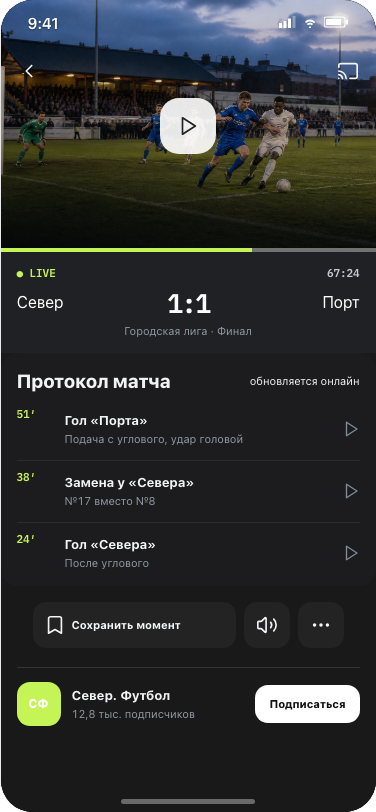
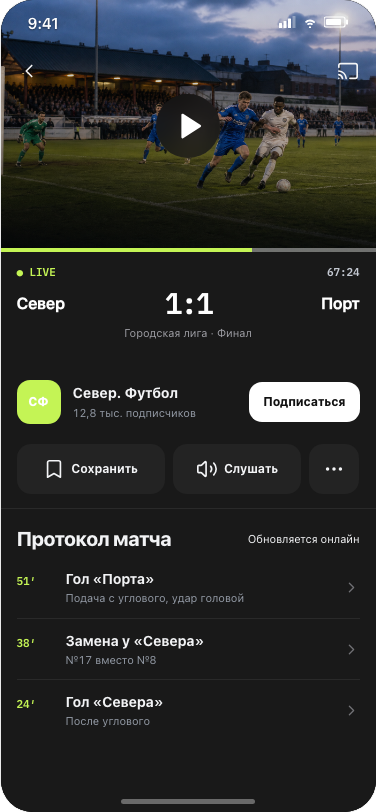
Refine Liga match player

diff --git a/platform/concepts/liga/screens/watch.html b/platform/concepts/liga/screens/watch.html
@@ -1,1 +1,1 @@
-<div class="screen lx-screen lx-watch" id="scr-watch"><div class="perm-hidden lx-fallback" data-show-denied="localnet" style="position:absolute;z-index:9;top:54px;left:12px;right:12px">Телевизор недоступен. Продолжаем на телефоне.</div><div class="perm-hidden lx-fallback" data-show-denied="photoadd" style="position:absolute;z-index:9;top:54px;left:12px;right:12px">Момент сохранён в профиле. Экспортировать его можно позже.</div><div class="lx-player2"><div class="lx-playerbar"><div class="lx-head-action" data-back><svg class="lx-icon"><use href="#i-chevron-left"/></svg></div><div class="lx-head-action" data-ask="localnet|cast|watch"><svg class="lx-icon"><use href="#i-cast"/></svg></div></div><div class="lx-player-play"><span><svg class="lx-icon"><use href="#i-play"/></svg></span></div><div class="lx-player-progress"><i></i></div></div><div class="body-scroll"><div class="lx-scoreboard"><div class="lx-score-top"><span>● LIVE</span><time>67:24</time></div><div class="lx-score-main"><strong>Север</strong><b>1:1</b><strong>Порт</strong></div><div class="lx-score-meta">Городская лига · Финал</div></div><div class="lx-protocol"><div class="lx-protocol-head"><h2>Протокол матча</h2><span>обновляется онлайн</span></div><div class="lx-protocol-list"><div class="lx-protocol-row" data-toast="Воспроизводим момент с 51-й минуты"><time>51′</time><div><strong>Гол «Порта»</strong><p>Подача с углового, удар головой</p></div><svg class="lx-icon"><use href="#i-play"/></svg></div><div class="lx-protocol-row" data-toast="Воспроизводим момент с 38-й минуты"><time>38′</time><div><strong>Замена у «Севера»</strong><p>№17 вместо №8</p></div><svg class="lx-icon"><use href="#i-play"/></svg></div><div class="lx-protocol-row" data-toast="Воспроизводим момент с 24-й минуты"><time>24′</time><div><strong>Гол «Севера»</strong><p>После углового</p></div><svg class="lx-icon"><use href="#i-play"/></svg></div></div></div><div class="lx-watchtools"><div class="lx-tooltext primary" data-ask="photoadd|watch|watch"><svg class="lx-icon"><use href="#i-bookmark"/></svg>Сохранить момент</div><div class="lx-tooltext" data-activate="audio|background"><svg class="lx-icon"><use href="#i-volume-2"/></svg></div><div class="lx-tooltext more" data-activate="domains|deeplink"><svg class="lx-icon"><use href="#i-ellipsis"/></svg></div></div><div class="lx-clubrow" data-go="channel"><div class="lx-crest">СФ</div><div><strong>Север. Футбол</strong><p>12,8 тыс. подписчиков</p></div><div class="lx-follow2">Подписаться</div></div></div><div class="home-ind"></div></div>
+<div class="screen lx-screen lx-watch" id="scr-watch"><div class="perm-hidden lx-fallback" data-show-denied="localnet" style="position:absolute;z-index:9;top:54px;left:12px;right:12px">Телевизор недоступен. Продолжаем на телефоне.</div><div class="perm-hidden lx-fallback" data-show-denied="photoadd" style="position:absolute;z-index:9;top:54px;left:12px;right:12px">Момент сохранён в профиле. Экспортировать его можно позже.</div><div class="lx-player2"><div class="lx-playerbar"><div class="lx-head-action" data-back><svg class="lx-icon"><use href="#i-chevron-left"/></svg></div><div class="lx-head-action" data-ask="localnet|cast|watch"><svg class="lx-icon"><use href="#i-cast"/></svg></div></div><div class="lx-player-play"><span><svg class="lx-icon"><use href="#i-play"/></svg></span></div><div class="lx-player-progress"><i></i></div></div><div class="body-scroll"><div class="lx-scoreboard"><div class="lx-score-top"><span>● LIVE</span><time>67:24</time></div><div class="lx-score-main"><strong>Север</strong><b>1:1</b><strong>Порт</strong></div><div class="lx-score-meta">Городская лига · Финал</div></div><div class="lx-clubrow" data-go="channel"><div class="lx-crest">СФ</div><div><strong>Север. Футбол</strong><p>12,8 тыс. подписчиков</p></div><div class="lx-follow2">Подписаться</div></div><div class="lx-watchtools"><div class="lx-tooltext primary" data-ask="photoadd|watch|watch"><svg class="lx-icon"><use href="#i-bookmark"/></svg><span>Сохранить</span></div><div class="lx-tooltext" data-activate="audio|background"><svg class="lx-icon"><use href="#i-volume-2"/></svg><span>Слушать</span></div><div class="lx-tooltext more" data-activate="domains|deeplink"><svg class="lx-icon"><use href="#i-ellipsis"/></svg></div></div><div class="lx-protocol"><div class="lx-protocol-head"><h2>Протокол матча</h2><span>Обновляется онлайн</span></div><div class="lx-protocol-list"><div class="lx-protocol-row" data-toast="Открываем момент с 51-й минуты"><time>51′</time><div><strong>Гол «Порта»</strong><p>Подача с углового, удар головой</p></div><svg class="lx-icon"><use href="#i-chevron-right"/></svg></div><div class="lx-protocol-row" data-toast="Открываем момент с 38-й минуты"><time>38′</time><div><strong>Замена у «Севера»</strong><p>№17 вместо №8</p></div><svg class="lx-icon"><use href="#i-chevron-right"/></svg></div><div class="lx-protocol-row" data-toast="Открываем момент с 24-й минуты"><time>24′</time><div><strong>Гол «Севера»</strong><p>После углового</p></div><svg class="lx-icon"><use href="#i-chevron-right"/></svg></div></div></div></div><div class="home-ind"></div></div>

diff --git a/platform/concepts/liga/styles.css b/platform/concepts/liga/styles.css
@@ -3257,3 +3257,152 @@
 .lx-subscribe .lx-section > span {
   color: var(--lx-secondary) !important;
 }
+
+/* Watch is one continuous viewing flow: media, live state, moments, actions, author. */
+.lx-watch .lx-player-play span {
+  width: 64px !important;
+  height: 64px !important;
+  border-radius: 50% !important;
+  background: rgba(18, 18, 18, 0.72) !important;
+  color: #fff !important;
+  backdrop-filter: blur(12px) !important;
+}
+.lx-watch .lx-player-play .lx-icon {
+  width: 30px !important;
+  height: 30px !important;
+  margin-left: 3px !important;
+  fill: #fff !important;
+  stroke: #fff !important;
+}
+.lx-watch .body-scroll {
+  padding-bottom: calc(var(--safe-bottom) + 18px) !important;
+}
+.lx-watch .lx-scoreboard {
+  min-height: 108px !important;
+  padding: 13px 16px 14px !important;
+  background: #191919 !important;
+}
+.lx-watch .lx-score-top span,
+.lx-watch .lx-score-top time {
+  font-size: 11px !important;
+  line-height: 14px !important;
+}
+.lx-watch .lx-score-main {
+  margin-top: 8px !important;
+}
+.lx-watch .lx-score-main strong {
+  font-size: 16px !important;
+  line-height: 20px !important;
+  font-weight: 560 !important;
+}
+.lx-watch .lx-score-main b {
+  font-size: 30px !important;
+  line-height: 32px !important;
+  font-weight: 720 !important;
+}
+.lx-watch .lx-score-meta {
+  margin-top: 5px !important;
+  color: var(--lx-secondary) !important;
+}
+.lx-watch .lx-protocol {
+  margin: 0 !important;
+  padding: 15px 16px 4px !important;
+  border-radius: 0 !important;
+  background: transparent !important;
+}
+.lx-watch .lx-protocol-head h2 {
+  font-size: 20px !important;
+  line-height: 25px !important;
+  letter-spacing: -0.025em !important;
+}
+.lx-watch .lx-protocol-head span {
+  font-size: 11px !important;
+  white-space: nowrap;
+}
+.lx-watch .lx-protocol-list {
+  margin-top: 6px !important;
+}
+.lx-watch .lx-protocol-row {
+  min-height: 61px !important;
+  padding: 7px 0 !important;
+  grid-template-columns: 38px 1fr 24px !important;
+  gap: 11px !important;
+}
+.lx-watch .lx-protocol-row time {
+  align-self: start !important;
+  padding-top: 10px !important;
+}
+.lx-watch .lx-protocol-row > .lx-icon {
+  width: 17px !important;
+  height: 17px !important;
+  color: var(--lx-tertiary) !important;
+}
+.lx-watch .lx-protocol-row strong {
+  font-size: 14px !important;
+  line-height: 18px !important;
+}
+.lx-watch .lx-protocol-row p {
+  margin-top: 2px !important;
+  font-size: 11px !important;
+  line-height: 15px !important;
+}
+.lx-watch .lx-watchtools {
+  min-height: 50px !important;
+  margin: 2px 16px 14px !important;
+  padding: 0 !important;
+  display: grid !important;
+  grid-template-columns: 1.15fr 1fr 50px !important;
+  gap: 8px !important;
+  border-radius: 0 !important;
+  background: transparent !important;
+}
+.lx-watch .lx-tooltext,
+.lx-watch .lx-tooltext.primary,
+.lx-watch .lx-tooltext.more {
+  width: auto !important;
+  height: 50px !important;
+  min-height: 50px !important;
+  margin: 0 !important;
+  padding: 0 10px !important;
+  justify-content: center !important;
+  gap: 6px !important;
+  border-radius: 14px !important;
+  background: #232323 !important;
+  font-size: 12px !important;
+  font-weight: 700 !important;
+}
+.lx-watch .lx-tooltext .lx-icon {
+  width: 22px !important;
+  height: 22px !important;
+}
+.lx-watch .lx-clubrow {
+  min-height: 82px !important;
+  margin: 0 16px !important;
+  padding: 13px 0 12px !important;
+  border: 0 !important;
+  gap: 12px !important;
+}
+.lx-watch .lx-clubrow strong {
+  font-size: 14px !important;
+  line-height: 18px !important;
+}
+.lx-watch .lx-clubrow p {
+  margin-top: 3px !important;
+  font-size: 11px !important;
+  line-height: 15px !important;
+}
+.lx-watch .lx-clubrow .lx-crest {
+  width: 44px !important;
+  height: 44px !important;
+  border-radius: 13px !important;
+}
+.lx-watch .lx-follow2 {
+  min-height: 40px !important;
+  padding: 0 14px !important;
+  font-size: 12px !important;
+  white-space: nowrap;
+}
+.lx-watch .lx-protocol {
+  padding-top: 17px !important;
+  border-top: 1px solid rgba(255,255,255,.07) !important;
+}
